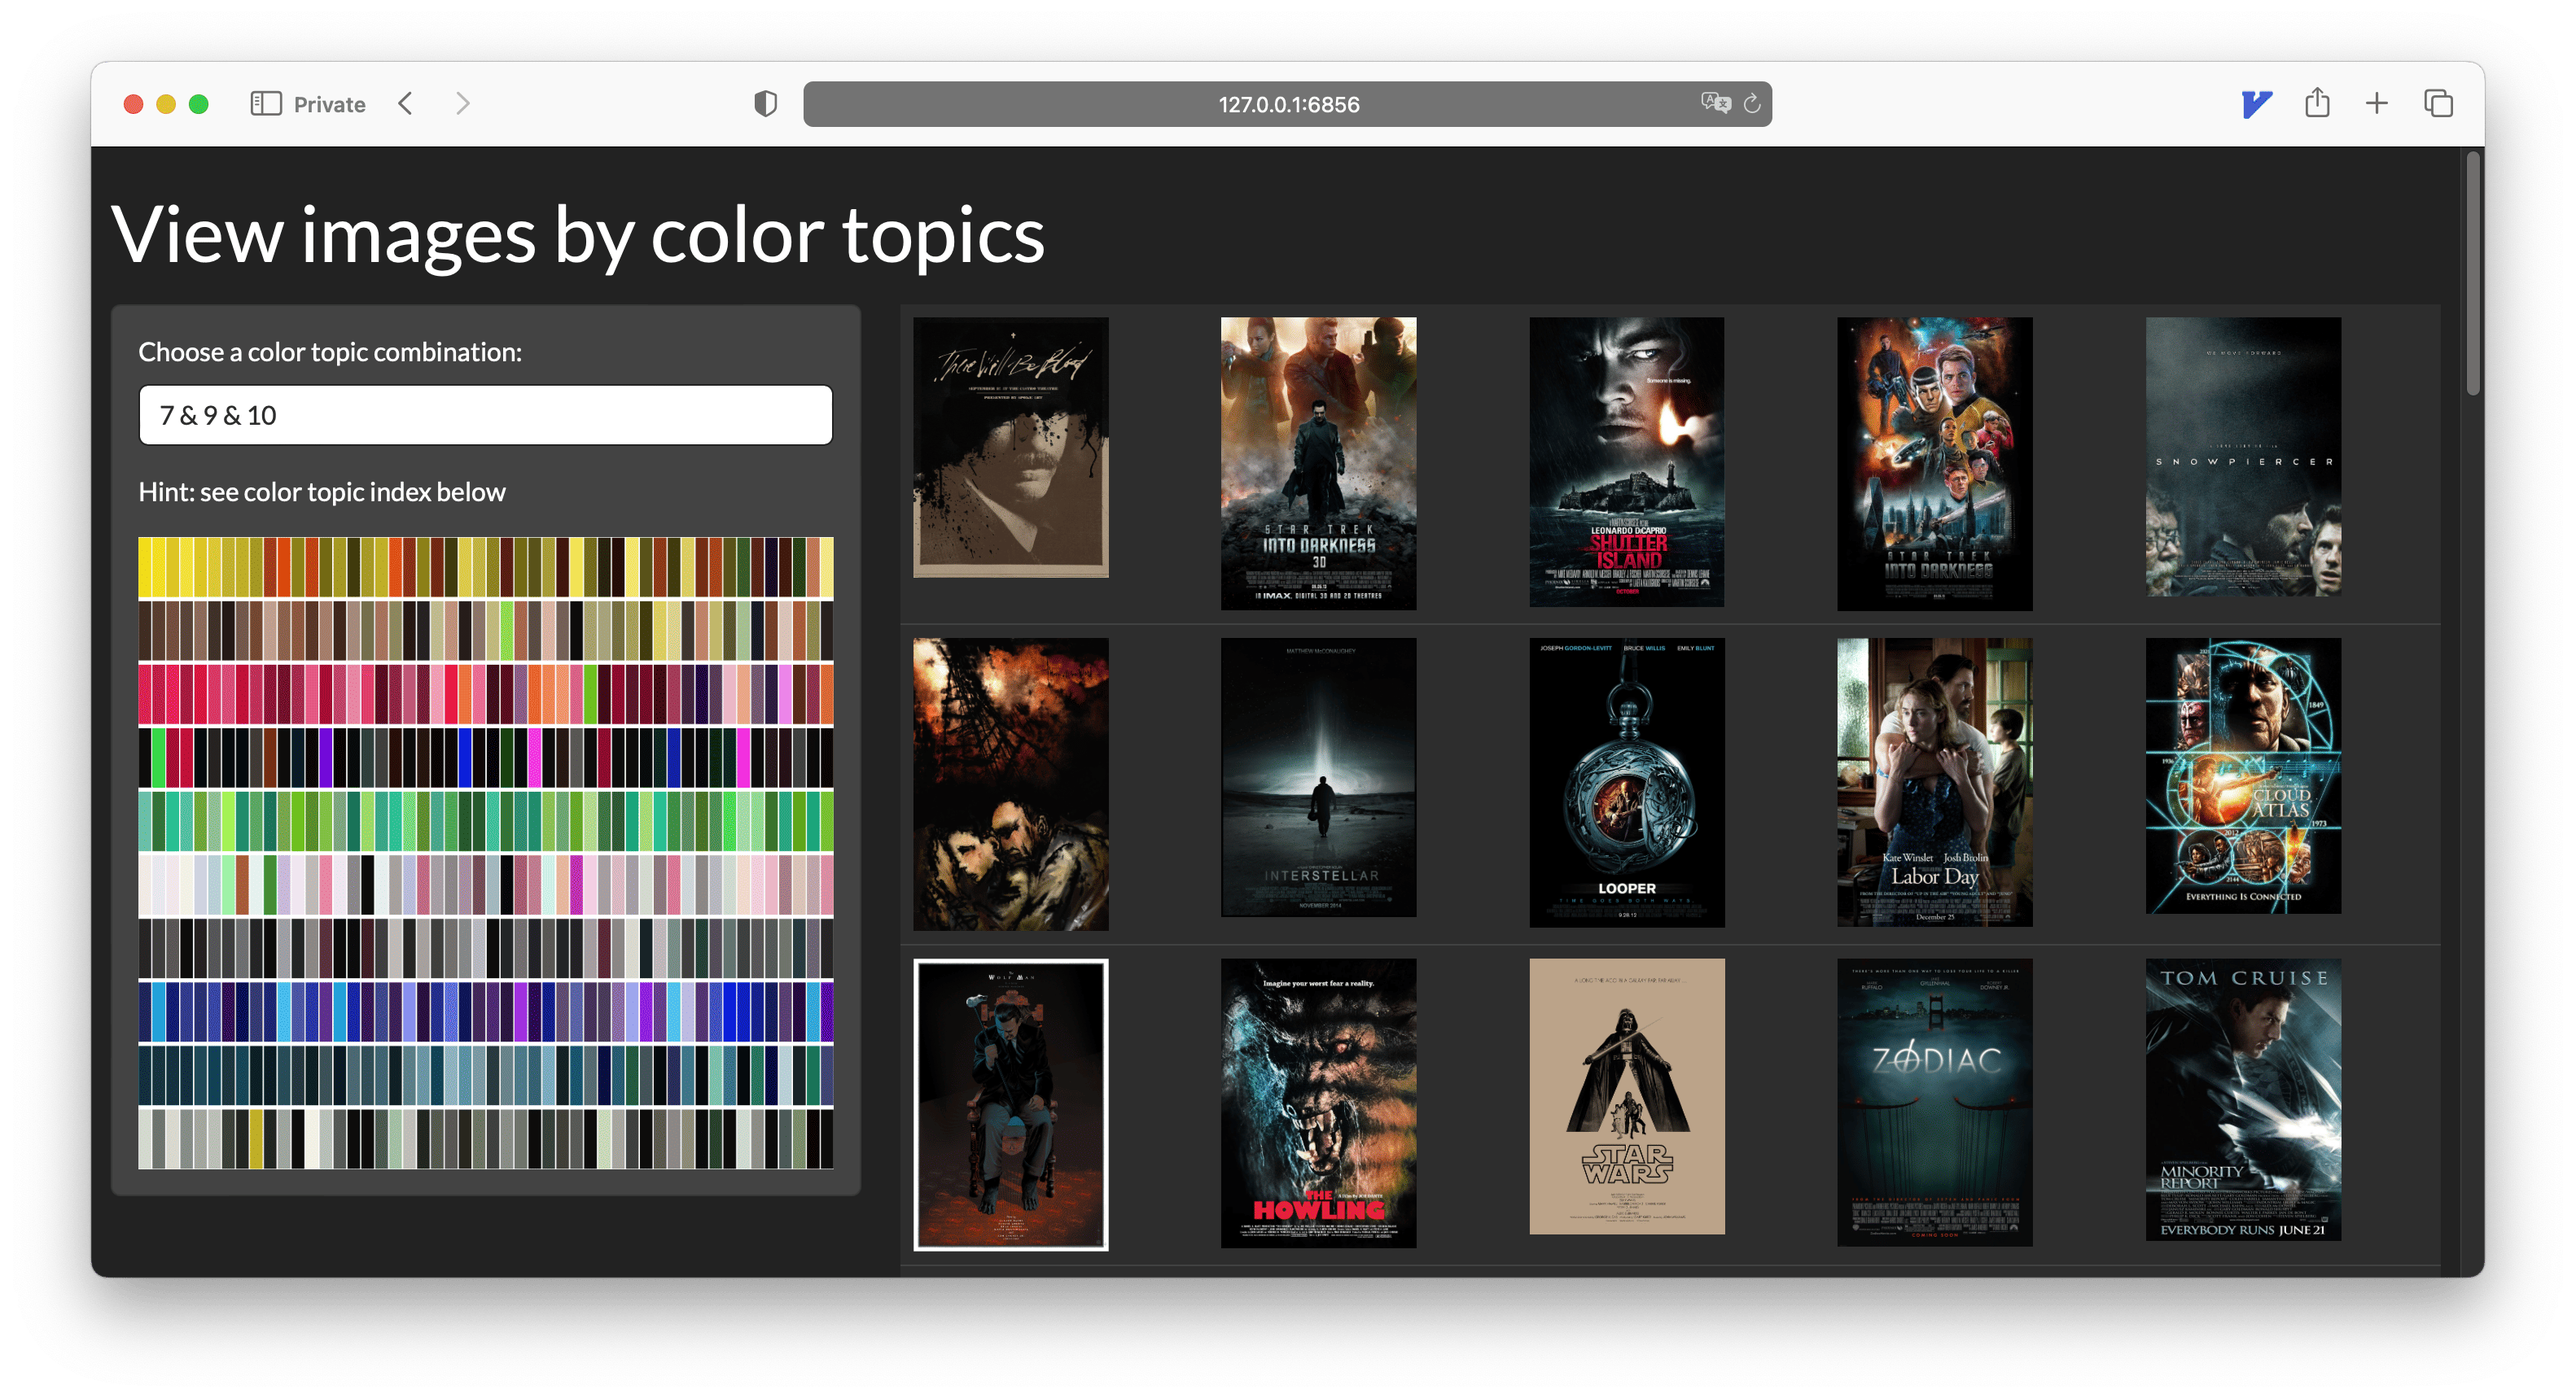
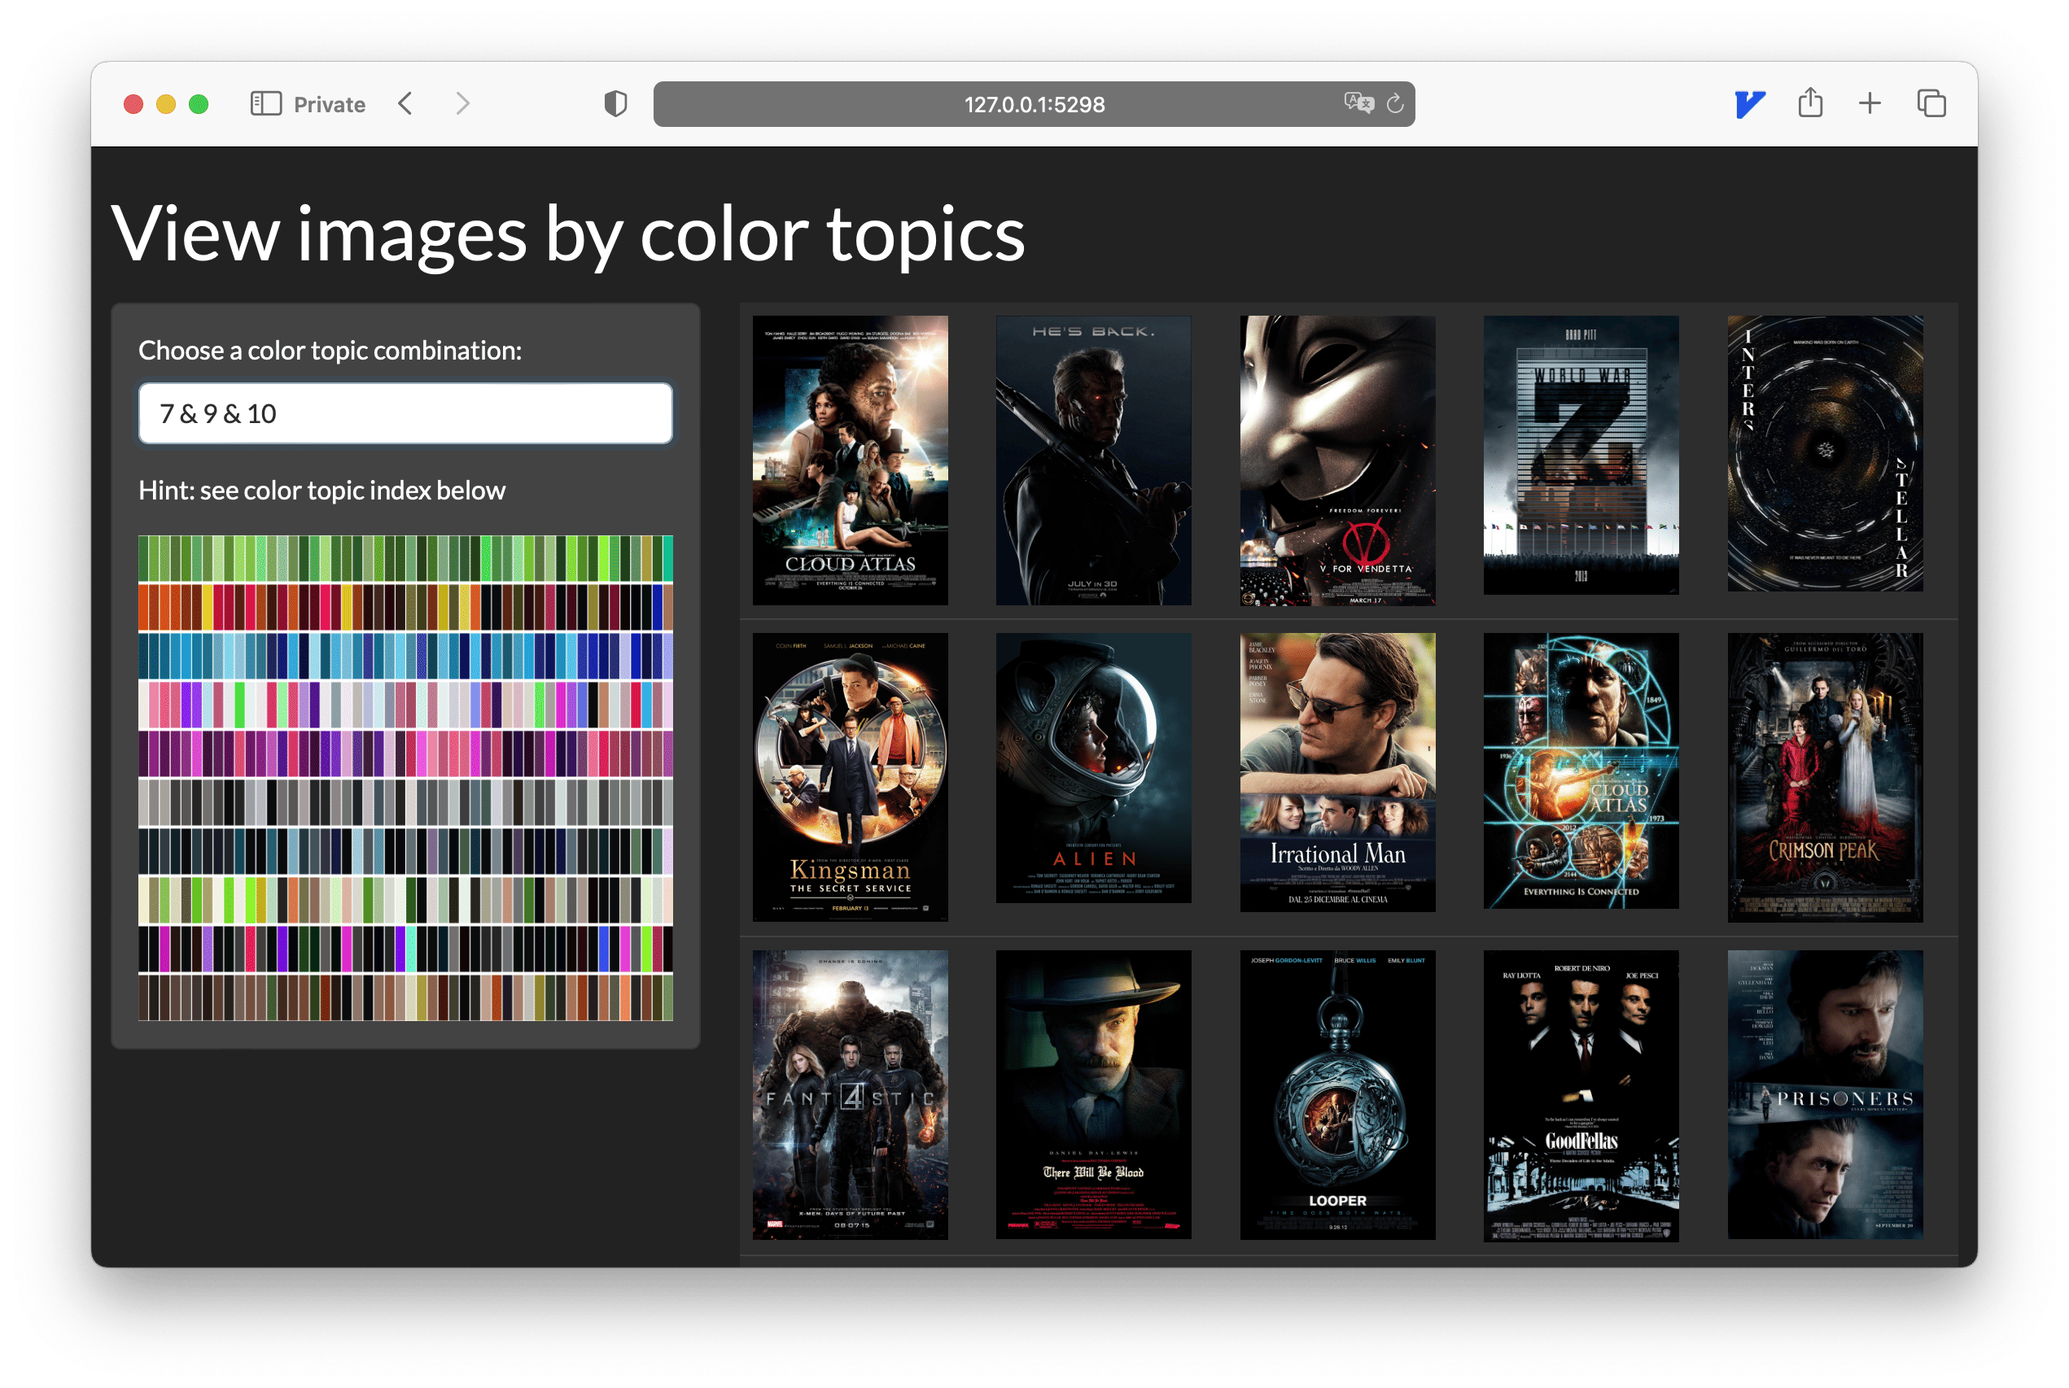
Update screenshot

diff --git a/README.md b/README.md
@@ -40,4 +40,11 @@ A minimal Shiny app is built for easy review of images under
 the same color topic or mixture of topics.
 To use the app, open the project and run through `R/5-exemplar.R`.
 
+The example below shows a common pattern used from the combination of
+their three most prominent color topics:
+
+- Dark color background (topic 7).
+- High contrast color title (topic 9).
+- Protagonist with skin color shown in the foreground (topic 10).
+
 ![Shiny app for viewing images by color topics.](images/exemplar.png)
